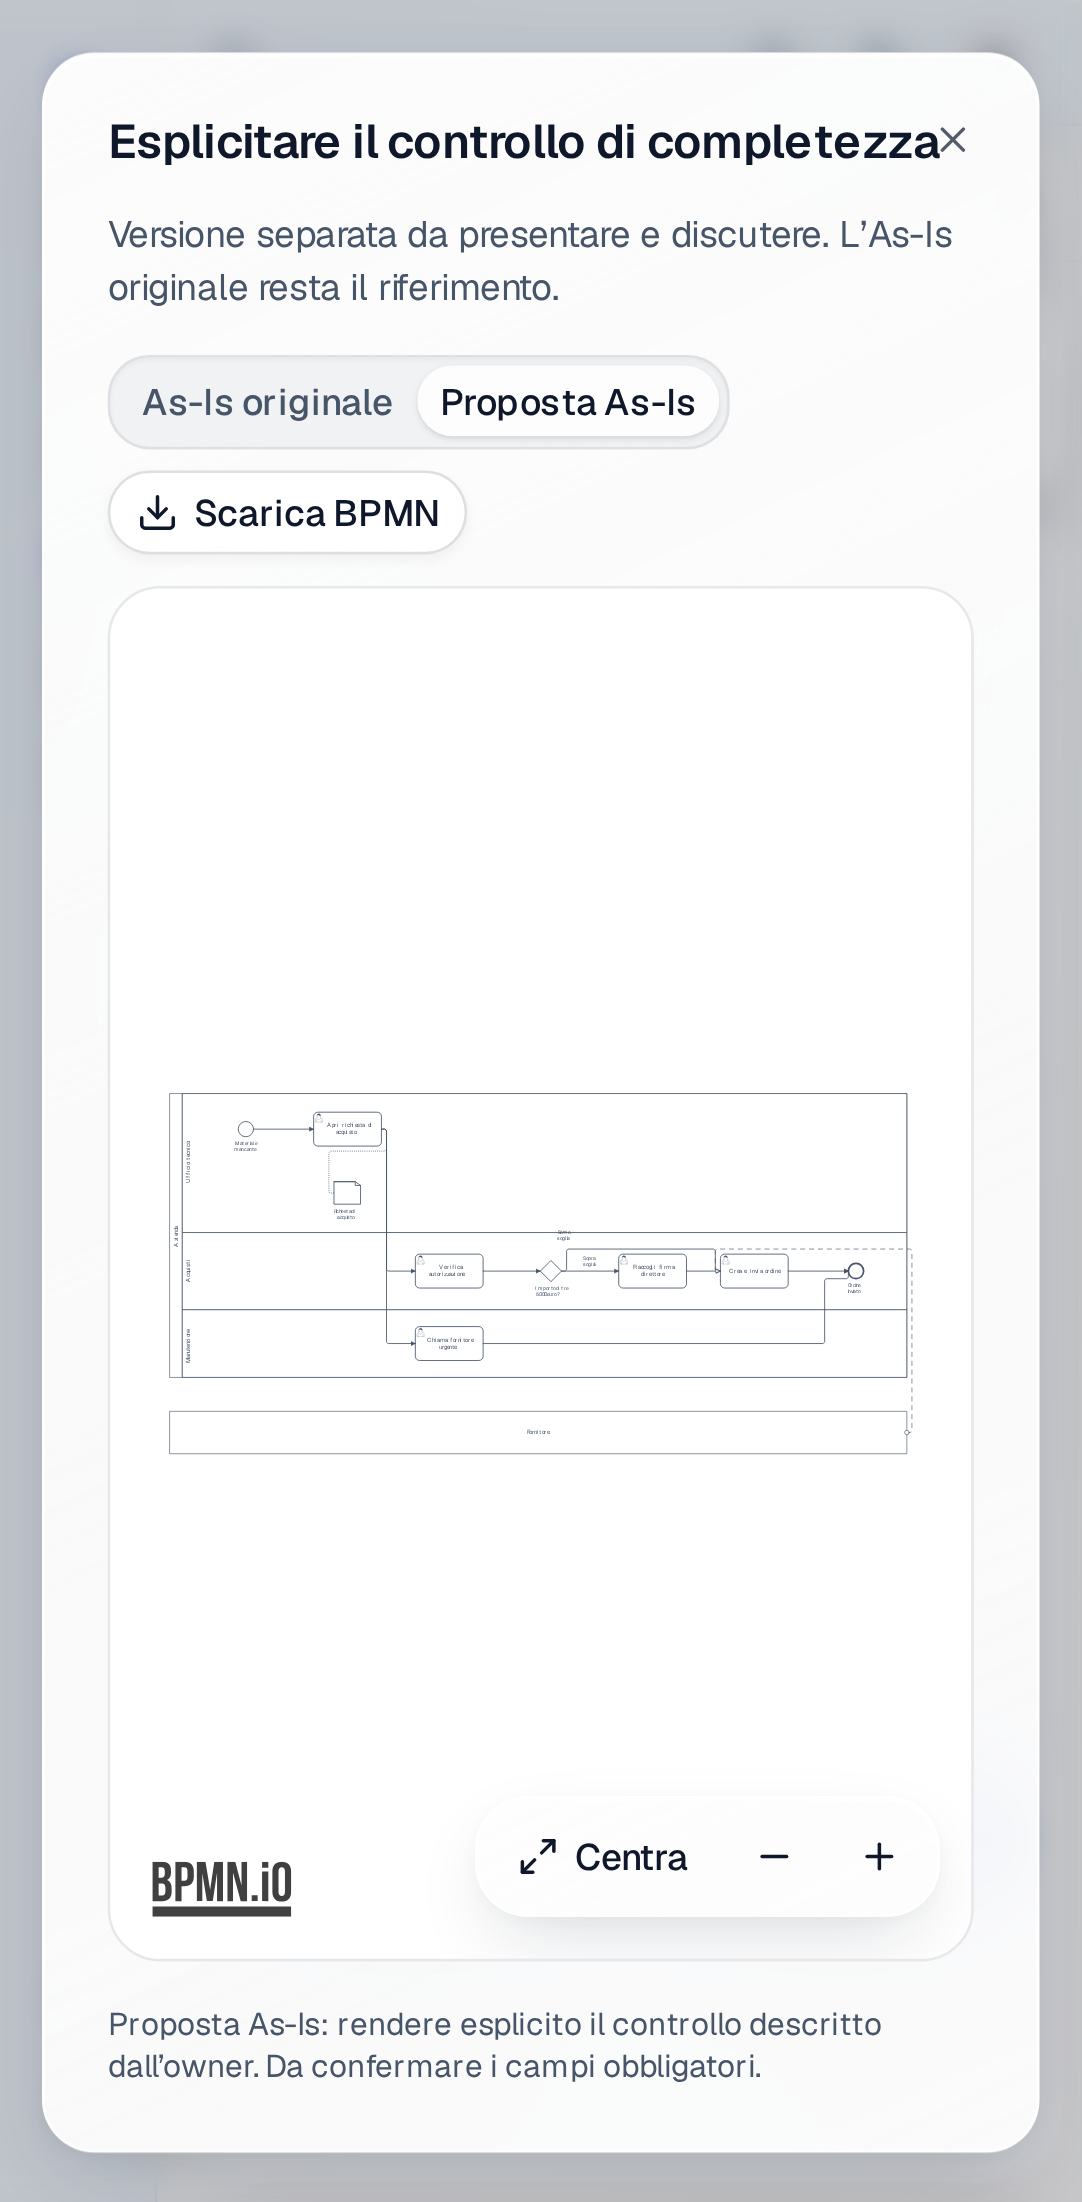
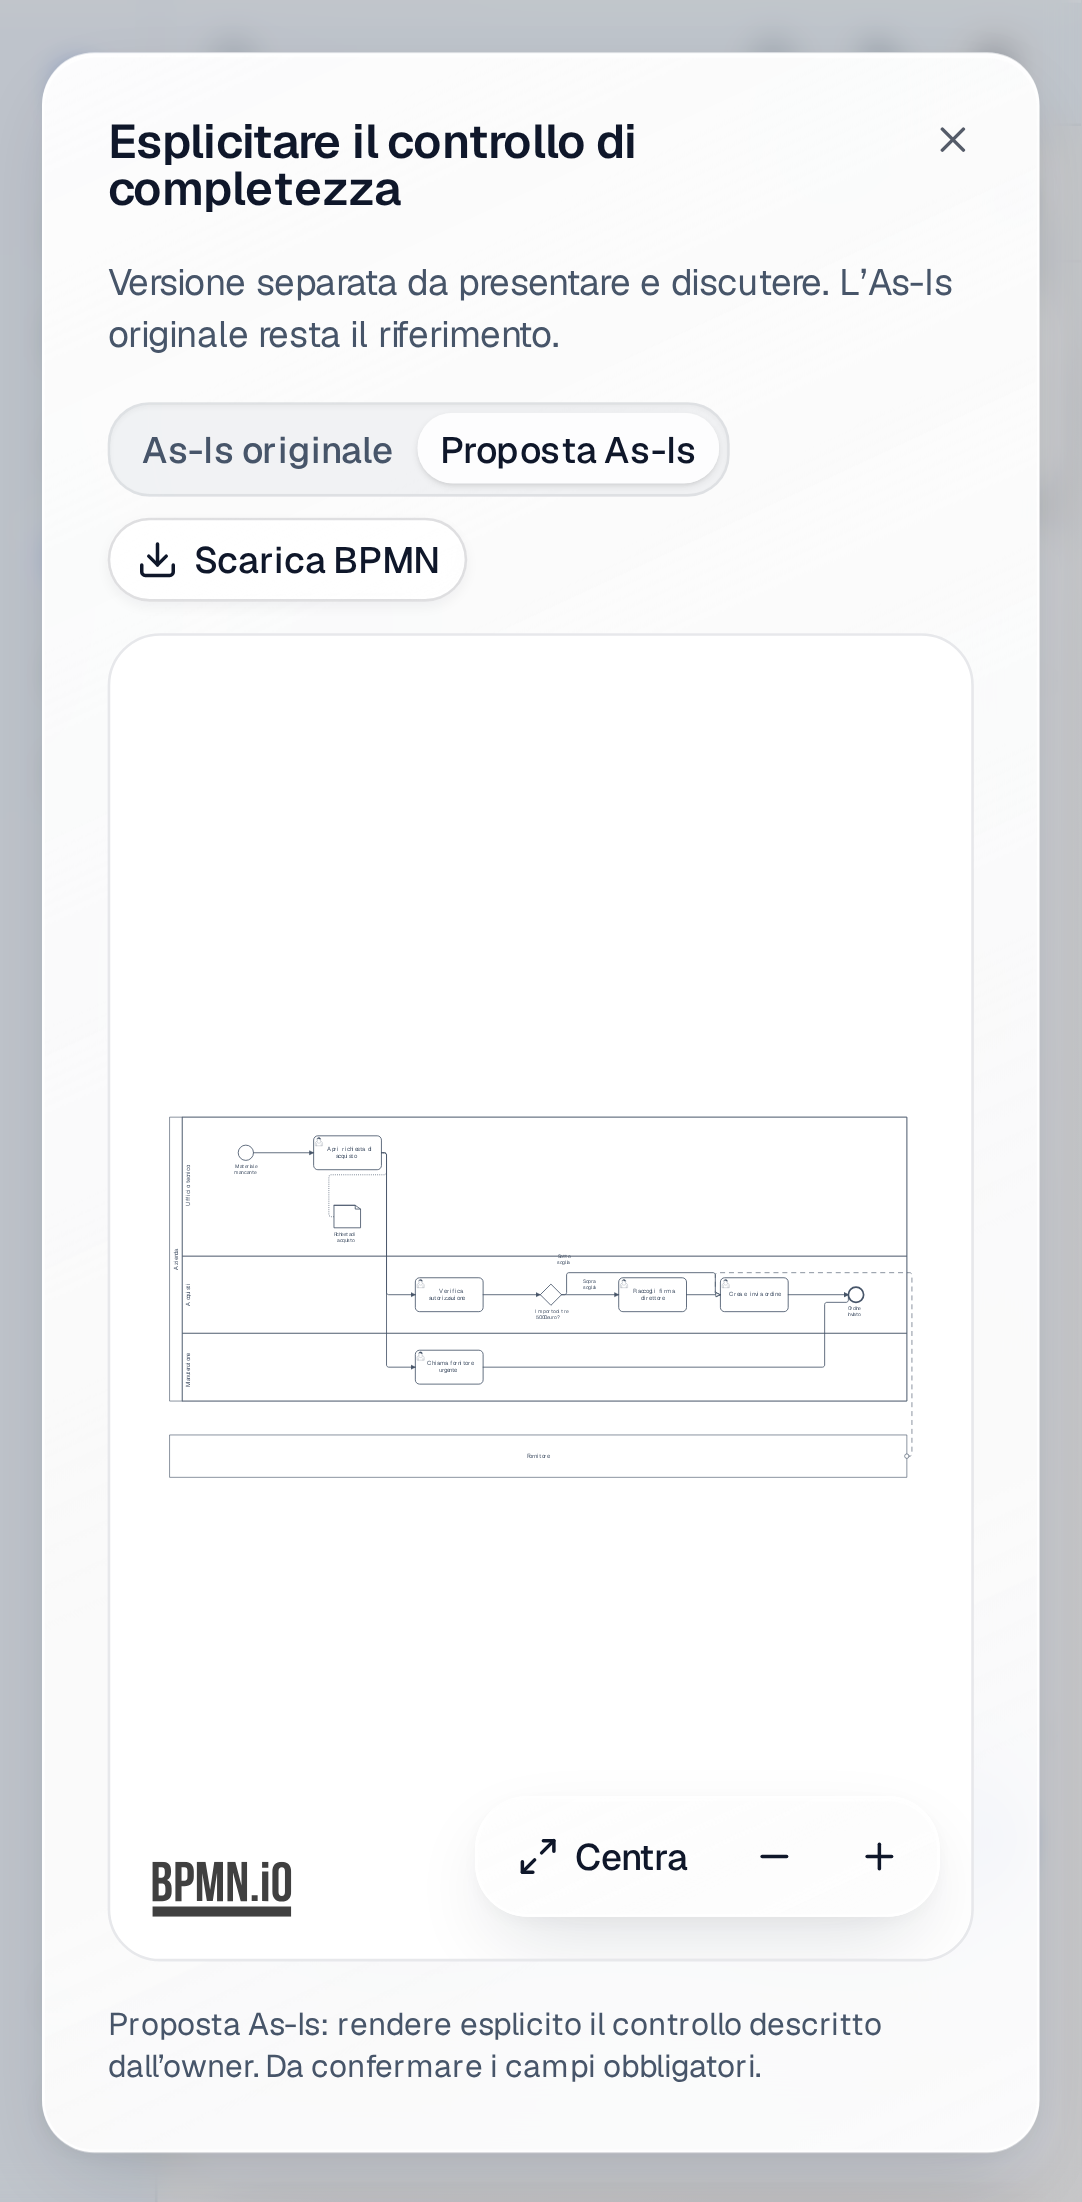
fix(review): reserve close-button space for long proposal titles on mobile

diff --git a/frontend/src/features/process/review/ReviewProposalViewer.tsx b/frontend/src/features/process/review/ReviewProposalViewer.tsx
@@ -20,7 +20,7 @@ export function ReviewProposalViewer({ action, baseline, onClose }: { action: Re
   let nodes: ReviewNode[];
   try { nodes = readReviewGraph(xml ?? null).nodes; } catch { nodes = []; }
   return <Dialog open onOpenChange={open => { if (!open) onClose(); }}><DialogContent className="review-proposal-viewer sm:max-w-5xl">
-    <DialogTitle>{action.title}</DialogTitle><DialogDescription>{t("review.agent.separateProposal")}</DialogDescription>
+    <DialogTitle className="pr-8">{action.title}</DialogTitle><DialogDescription>{t("review.agent.separateProposal")}</DialogDescription>
     <Tabs value={version} onValueChange={setVersion} className="flex min-h-0 flex-1 flex-col gap-3"><div className="flex flex-wrap items-center justify-between gap-2"><TabsList><TabsTrigger value="baseline">{t("review.agent.baseline")}</TabsTrigger><TabsTrigger value="proposal">{t(`review.kind.${action.kind}`)}</TabsTrigger></TabsList><Button variant="outline" size="sm" onClick={download}><Download aria-hidden />{t("review.agent.download")}</Button></div>
     <TabsContent value={version} className="mt-0 min-h-0 flex-1">{xml && <ReviewCanvas xml={xml} nodes={nodes} selected={null} upstream={[]} downstream={[]} documents={[]} focusImpact={false} onSelect={() => {}} />}</TabsContent></Tabs>
     <p className="max-h-24 overflow-auto whitespace-pre-wrap text-xs text-muted-foreground">{action.detail}</p>
